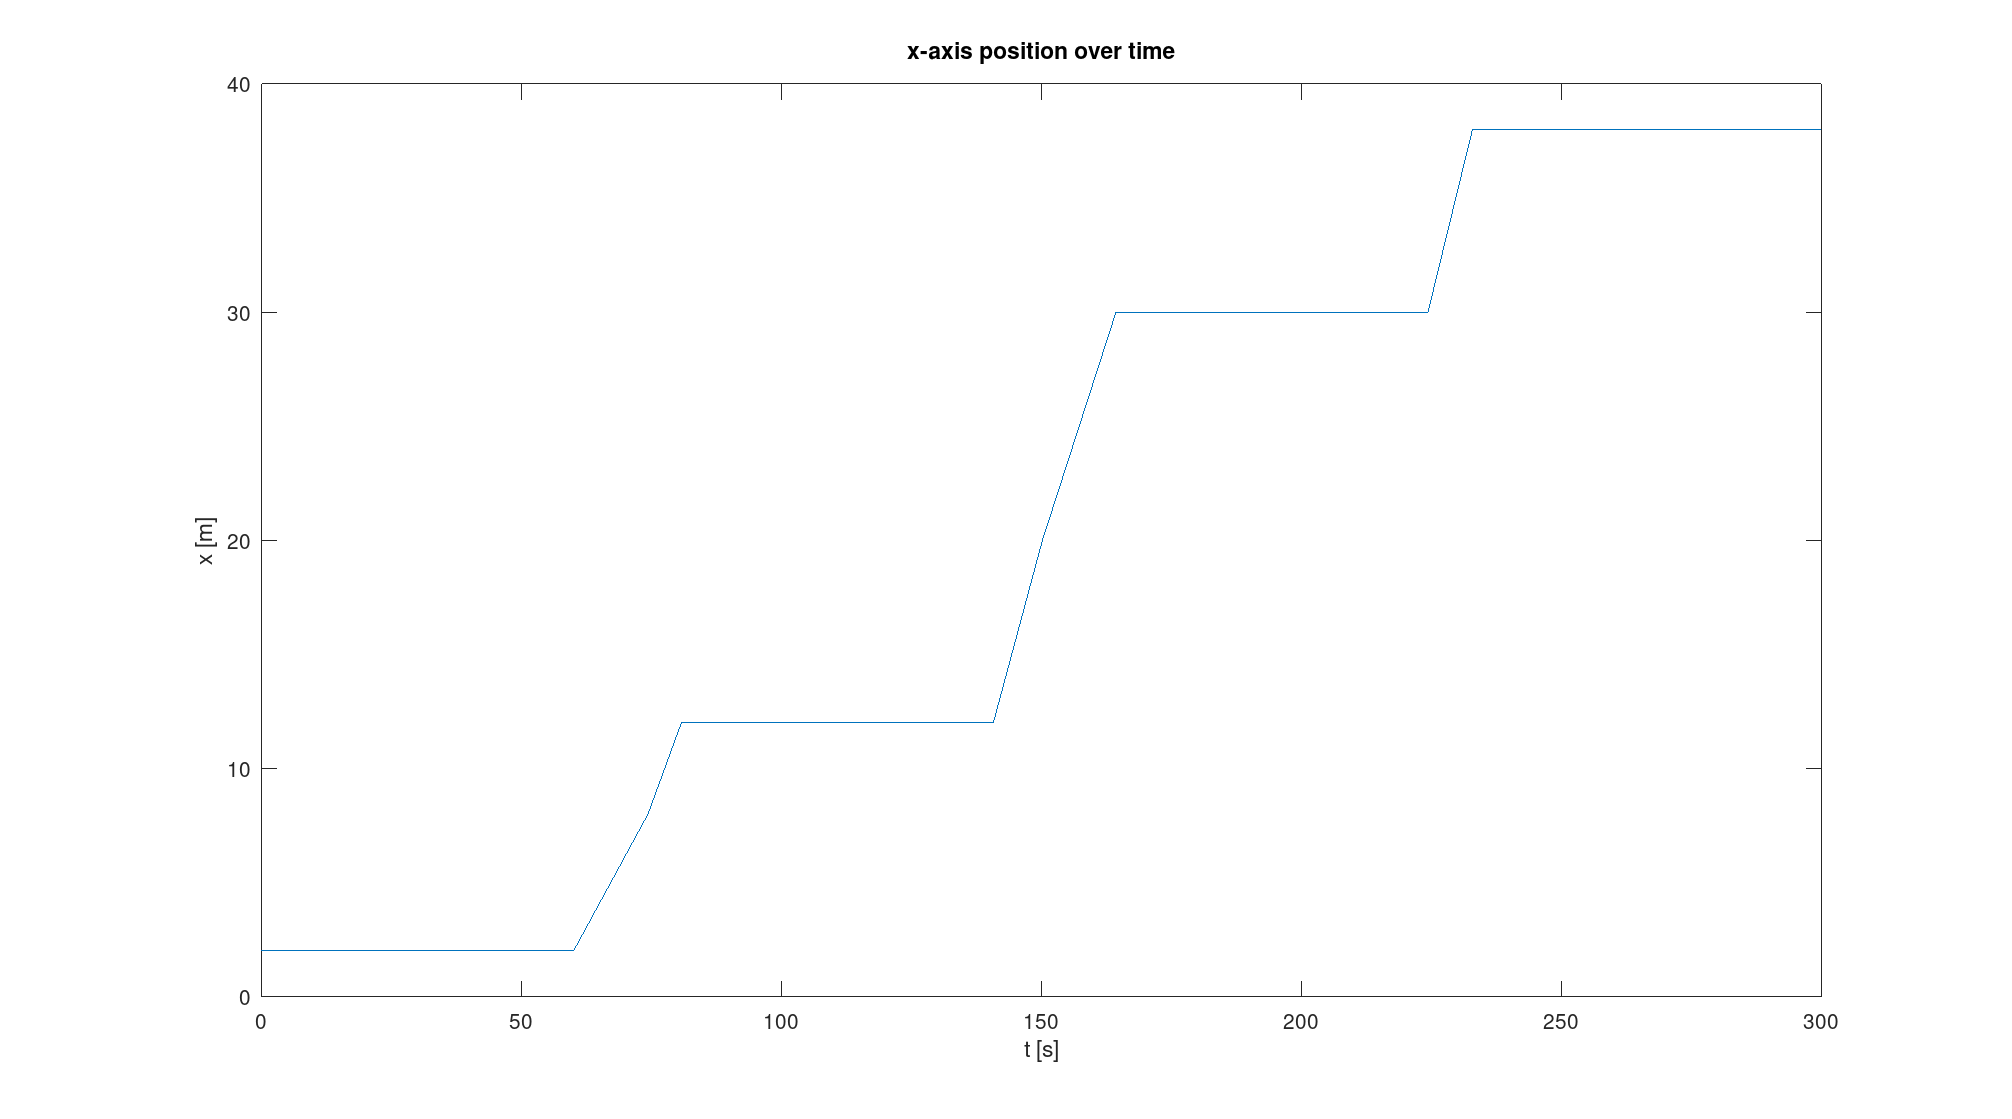
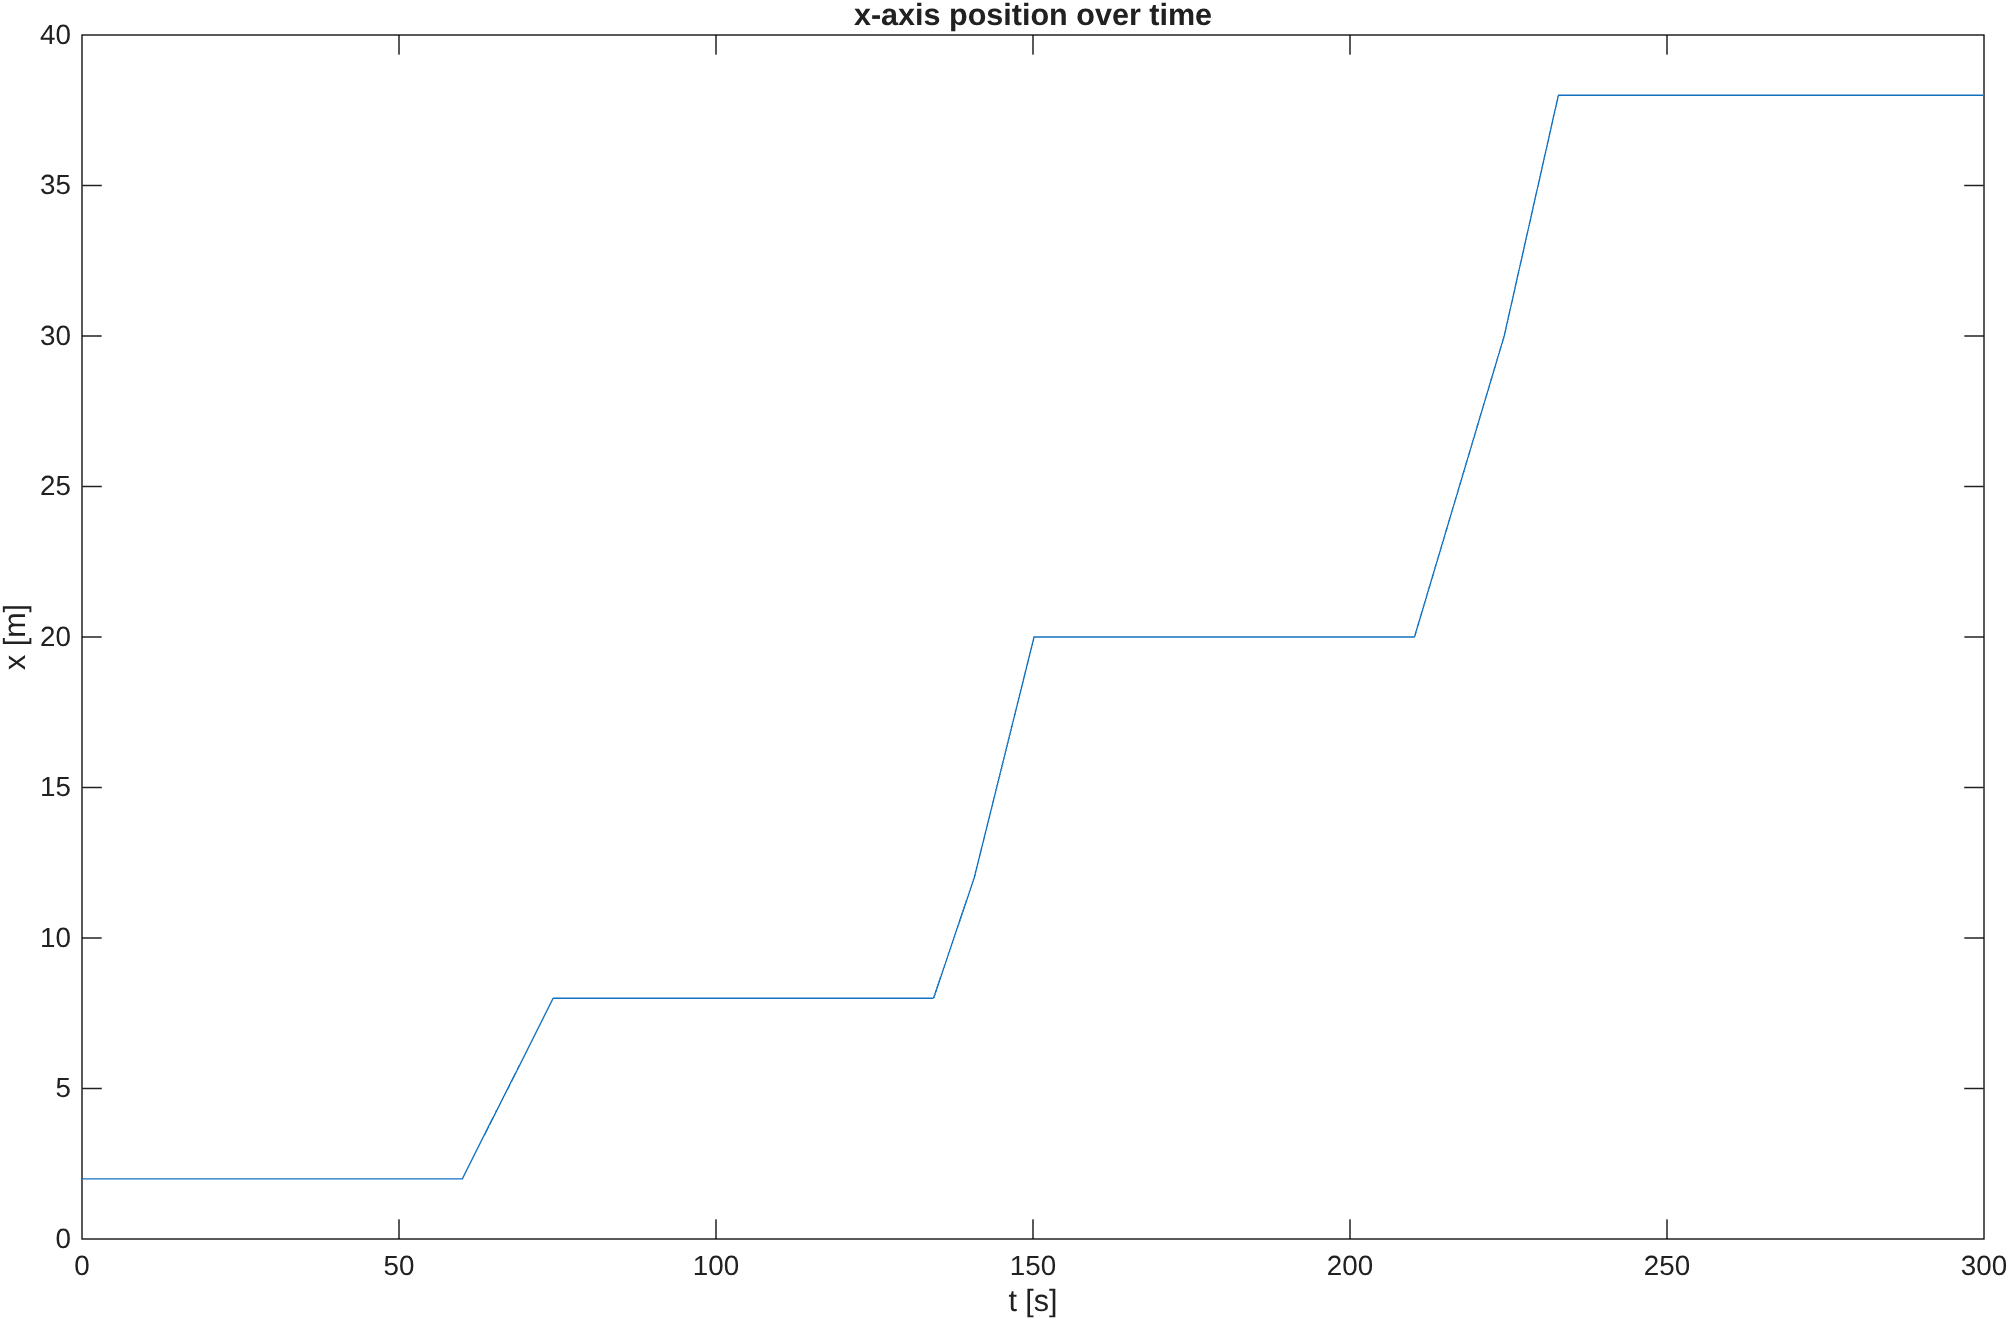
fix stopping positions in problem 1

diff --git a/Main_Project_1.m b/Main_Project_1.m
@@ -108,8 +108,8 @@ function [x,y] = position(t)
         else
             fprintf("    %.2f*r((t-%.2f)/%.2f)  -  %.2f*r((t-%.2f)/%.2f-1) +\n", location_diff, elapsed_time, t_travel_rounded(i-1), location_diff, elapsed_time, t_travel_rounded(i-1));
             elapsed_time = elapsed_time + t_travel_rounded(i-1);
-            % there are sensing stops at i=1,3,5
-            if i==1 || i==3 || i==5
+            % there are sensing stops after reaching (8,15) and (20,5), i=2,4
+            if i==2 || i==4
                 elapsed_time = elapsed_time + t_sensing_once;
             end
         end
@@ -128,8 +128,8 @@ function [x,y] = position(t)
         else
             fprintf("    %.2f*r((t-%.2f)/%.2f)  -  %.2f*r((t-%.2f)/%.2f-1) +\n", location_diff, elapsed_time, t_travel_rounded(i-1), location_diff, elapsed_time, t_travel_rounded(i-1));
             elapsed_time = elapsed_time + t_travel_rounded(i-1);
-            % there are sensing stops at i=1,3,5
-            if i==1 || i==3 || i==5
+            % there are sensing stops after reaching (8,15) and (20,5), i=2,4
+            if i==2 || i==4
                 elapsed_time = elapsed_time + t_sensing_once;
             end
         end
@@ -214,16 +214,16 @@ end
 % PROBLEM 1 FINAL VALUES
 % x(t) = 2 +
 %     6.00*r((t-60.00)/14.32)  -  6.00*r((t-60.00)/14.32-1) +
-%     4.00*r((t-74.32)/6.41)  -  4.00*r((t-74.32)/6.41-1) +
+%     4.00*r((t-134.32)/6.41)  -  4.00*r((t-134.32)/6.41-1) +
 %     8.00*r((t-140.73)/9.44)  -  8.00*r((t-140.73)/9.44-1) +
-%     10.00*r((t-150.17)/14.15)  -  10.00*r((t-150.17)/14.15-1) +
+%     10.00*r((t-210.17)/14.15)  -  10.00*r((t-210.17)/14.15-1) +
 %     8.00*r((t-224.32)/8.55)  -  8.00*r((t-224.32)/8.55-1)
 %
 % y(t) = 2 +
 %     13.00*r((t-60.00)/14.32)  -  13.00*r((t-60.00)/14.32-1) +
-%     -5.00*r((t-74.32)/6.41)  -  -5.00*r((t-74.32)/6.41-1) +
+%     -5.00*r((t-134.32)/6.41)  -  -5.00*r((t-134.32)/6.41-1) +
 %     -5.00*r((t-140.73)/9.44)  -  -5.00*r((t-140.73)/9.44-1) +
-%     10.00*r((t-150.17)/14.15)  -  10.00*r((t-150.17)/14.15-1) +
+%     10.00*r((t-210.17)/14.15)  -  10.00*r((t-210.17)/14.15-1) +
 %     3.00*r((t-224.32)/8.55)  -  3.00*r((t-224.32)/8.55-1)
 
 % measurement coordinates at (2,2), (8,15), (20,5), (38,18)
